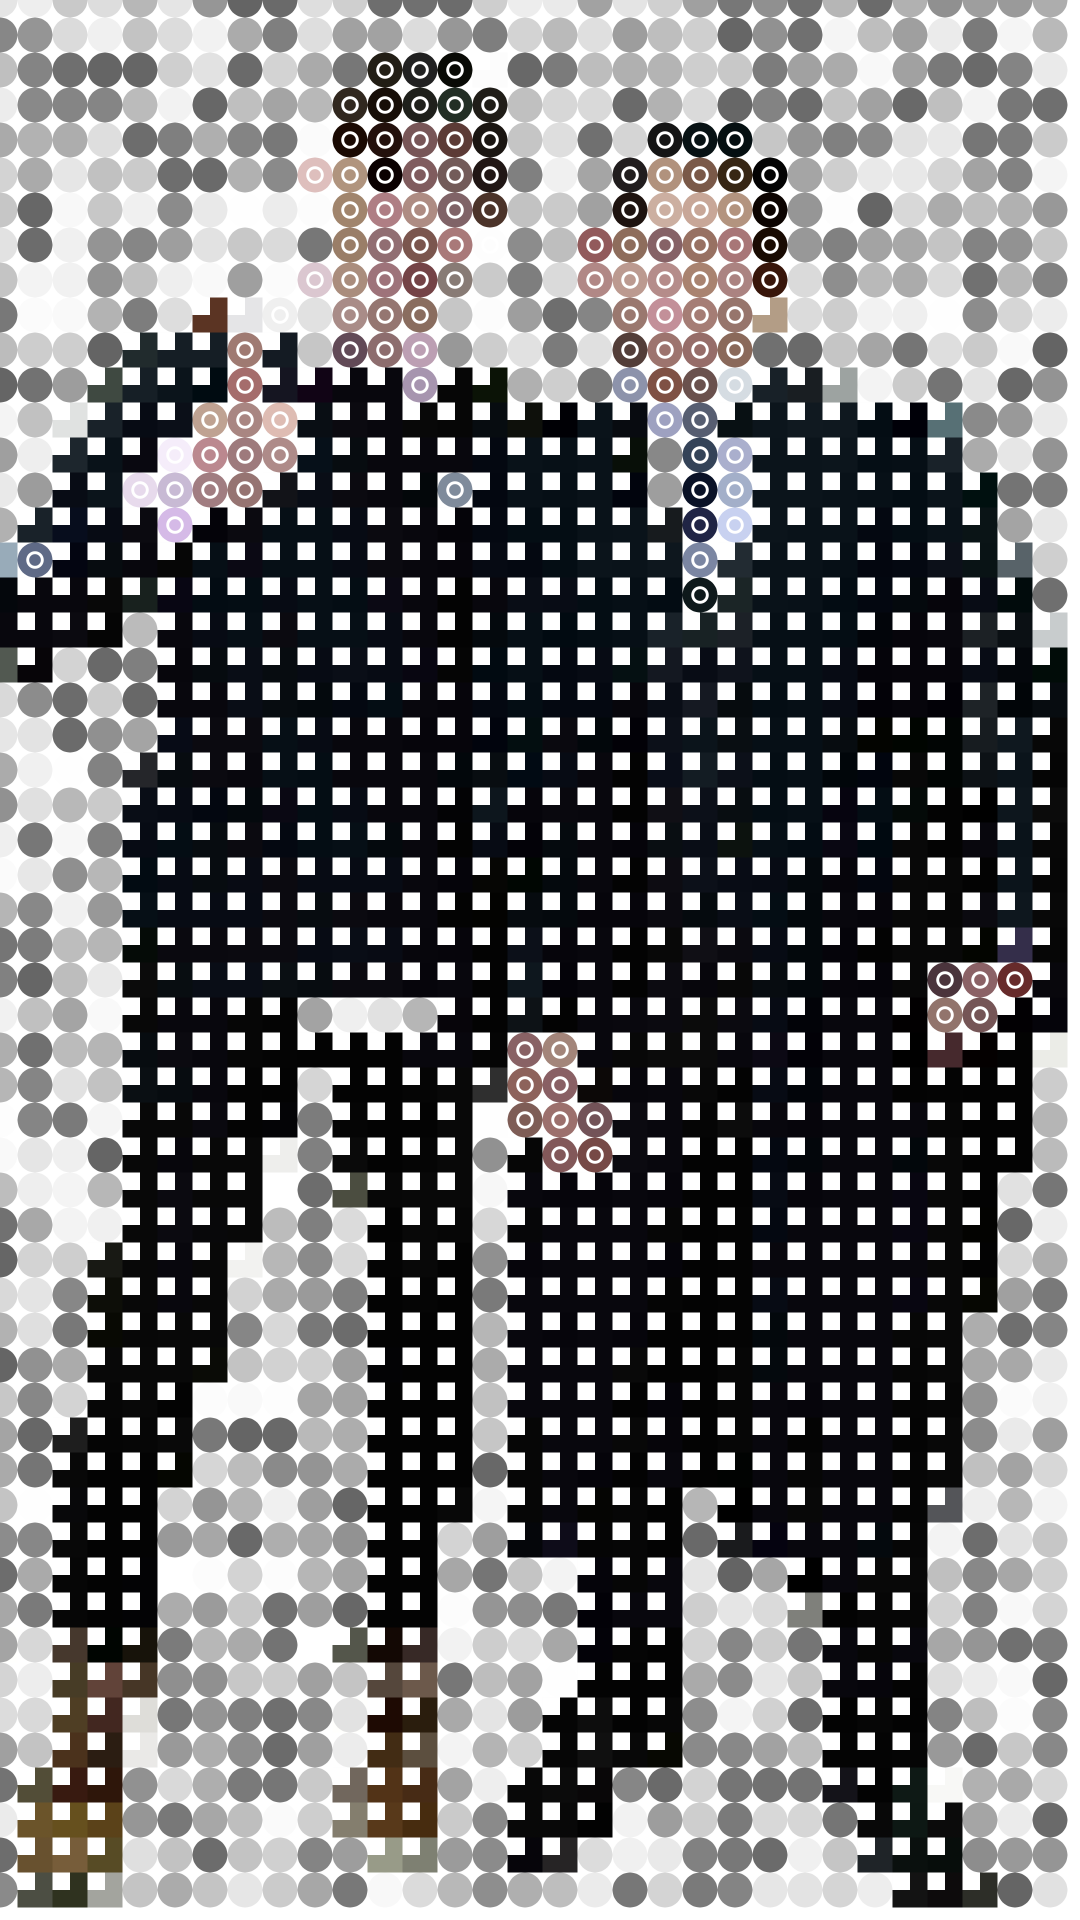
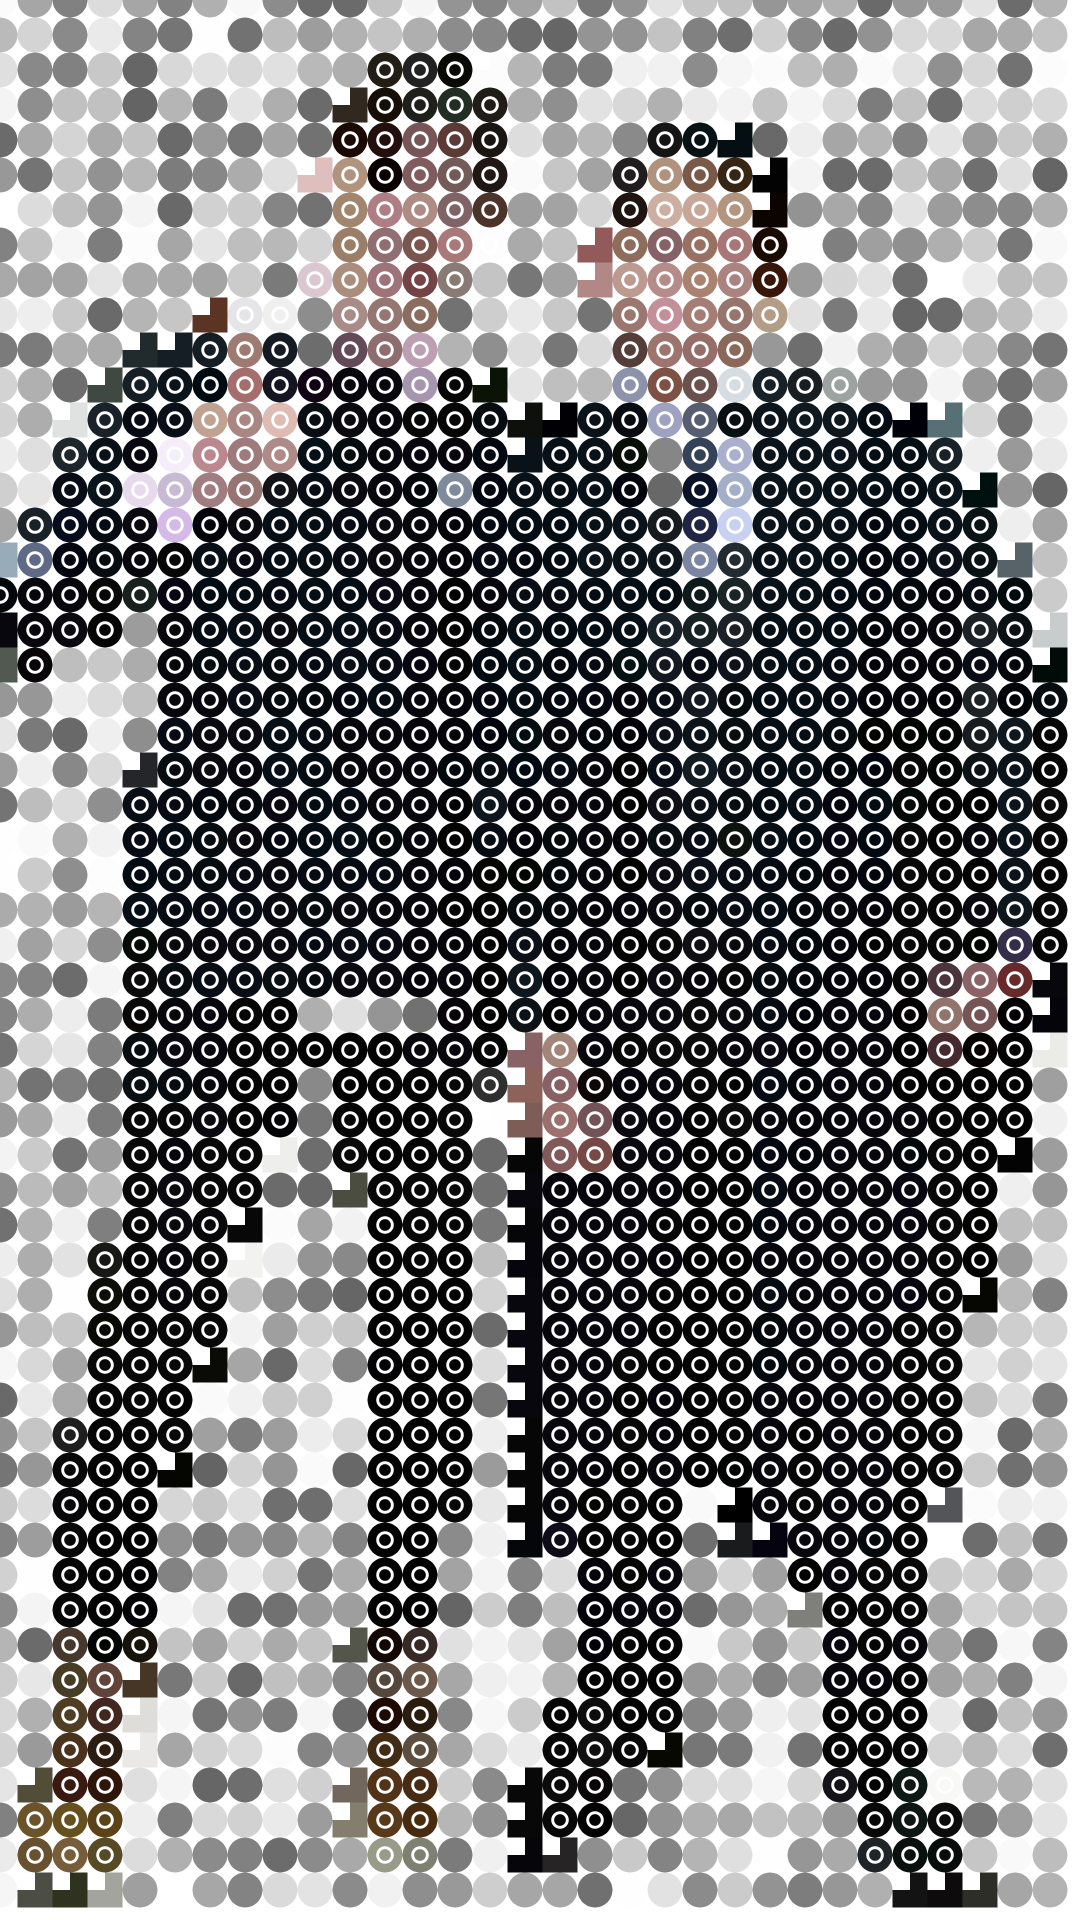
smartmask

diff --git a/sketch.js b/sketch.js
@@ -3,8 +3,8 @@ let maskImg=null;
 let renderCounter=0;
 
 function preload() {
-  sourceImg = loadImage("input_3.jpg");
-  maskImg = loadImage("mask_3.png");
+  sourceImg = loadImage("input_2.jpg");
+  maskImg = loadImage("mask_2.png");
 }
 
 function setup () {
